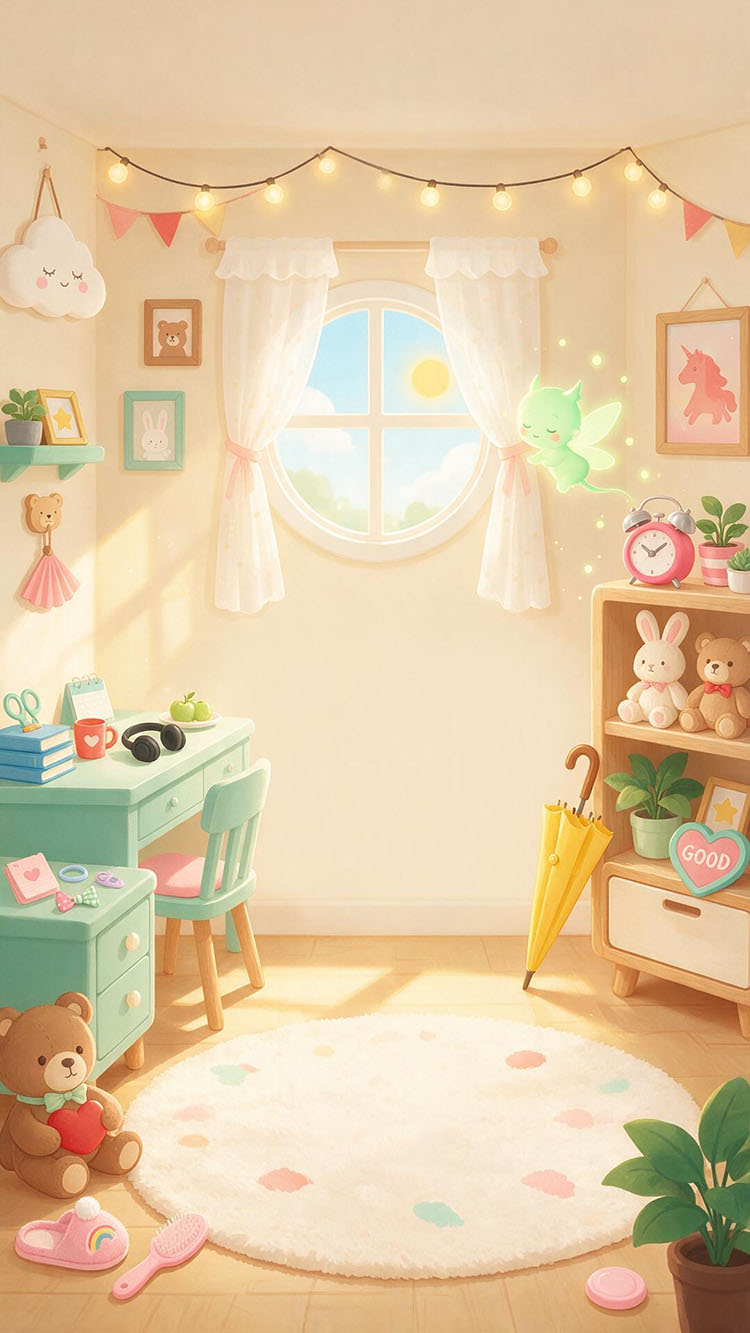
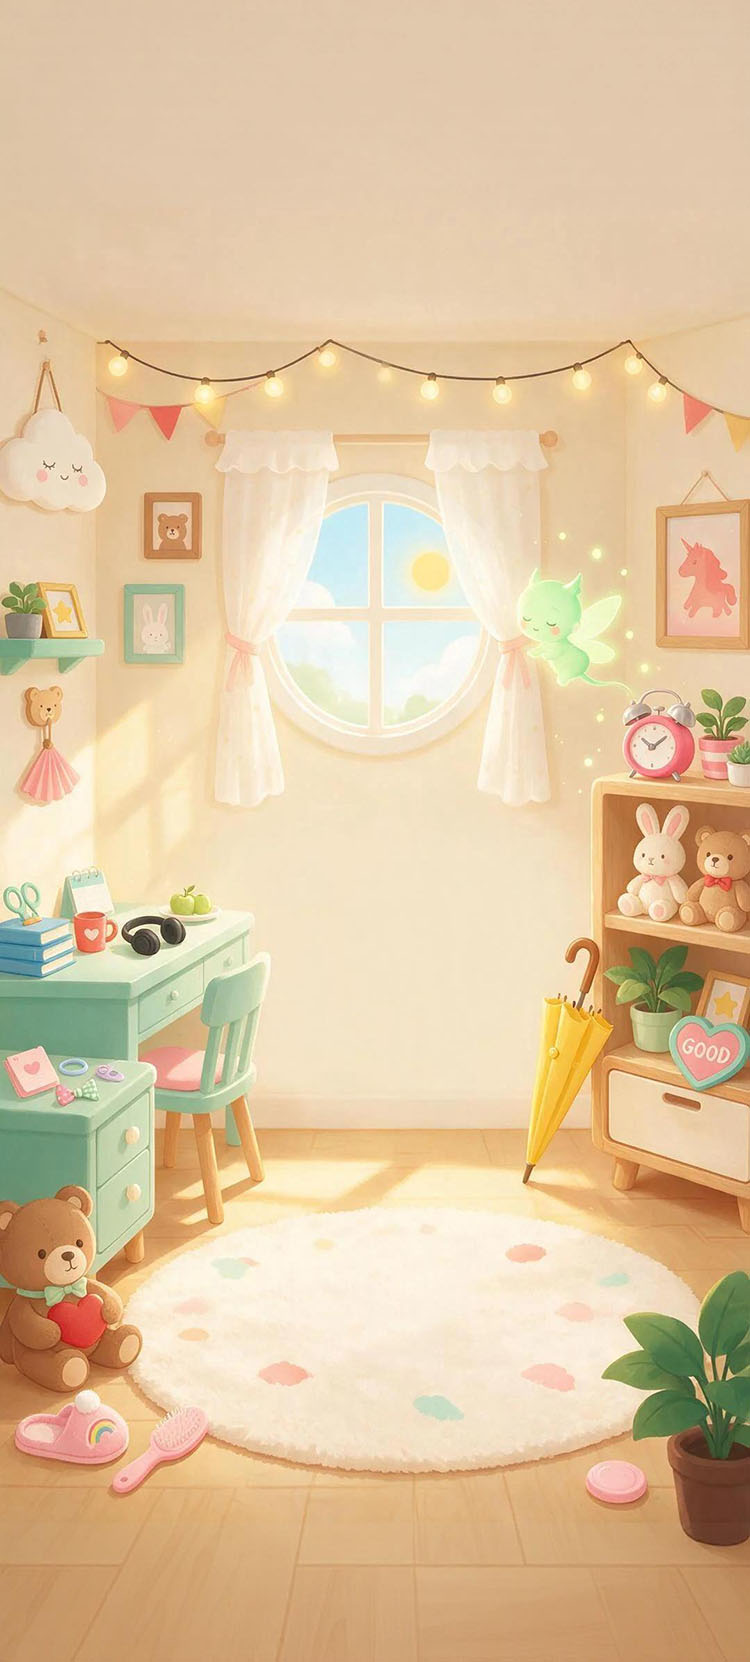
fix

diff --git a/assets/Script/app/NuonuoApp.ts b/assets/Script/app/NuonuoApp.ts
@@ -10,7 +10,7 @@
 import {
     _decorator, Component, Node, Label, Graphics, Color, UITransform,
     ScrollView, Mask, UIOpacity, tween, BlockInputEvents,
-    Sprite, SpriteFrame, resources, Tween, v3, sys,
+    Sprite, SpriteFrame, resources, Tween, v3, sys, view, Size,
 } from 'cc';
 const { ccclass } = _decorator;
 
@@ -29,14 +29,13 @@ const C_PAGE_BG: RGB = [22, 33, 62];        // #16213e
 const C_PRIMARY: RGB = [233, 69, 96];       // #e94560
 const C_GOLD: RGB = [245, 197, 24];         // #f5c518
 const C_BLUE: RGB = [59, 130, 246];         // 选关按钮
-const C_LOCKED: RGB = [51, 61, 76];         // 未解锁关卡
 const C_SUBTEXT: RGB = [170, 180, 200];     // 副标题/次级文字
 const C_WHITE: RGB = [255, 255, 255];
 const C_BROWN: RGB = [135, 94, 45];        // #875E2D 关卡界面文字/数字统一色
 
-// ========== 布局（设计分辨率 768×1344） ==========
-const SCREEN_W = 768;
-const SCREEN_H = 1344;
+// ========== 布局（设计分辨率 768×1344，布局坐标按设计稿写死） ==========
+// 全屏底板/遮罩不按设计分辨率铺，统一用 view.getVisibleSize()（见 visSize）：
+// 真机宽高比与设计分辨率不同时可见区会扩展，固定 768×1344 会铺不满留边。
 
 // ========== 功能开关 ==========
 /**
@@ -79,7 +78,8 @@ export default class NuonuoApp extends Component {
     private newScreen(name: string): Node {
         const n = new Node(name);
         n.layer = this.node.layer;
-        n.addComponent(UITransform).setContentSize(SCREEN_W, SCREEN_H);
+        const vs = this.visSize();
+        n.addComponent(UITransform).setContentSize(vs.width, vs.height);
         return n;
     }
 
@@ -89,6 +89,11 @@ export default class NuonuoApp extends Component {
         this.node.addChild(root);
     }
 
+    /** 当前可见区域尺寸（设计坐标，随屏幕宽高比动态变化），全屏底板/遮罩按它铺满 */
+    private visSize(): Size {
+        return view.getVisibleSize();
+    }
+
     // ========== 菜单页 ==========
 
     private showMenu(): void {
@@ -96,7 +101,7 @@ export default class NuonuoApp extends Component {
 
         // 背景：先铺原版底色兜底，再异步加载 first_bg.jpg 贴图覆盖（未就绪回退纯色）
         this.fullBg(root, C_MENU_BG);
-        this.loadFirstSprite(root, "first_bg", SCREEN_W, SCREEN_H, 0, 0, null);
+        this.loadFullBgSprite(root, 'first', 'first_bg');
 
         // 同一行三按钮：排行榜(左) · 开始(中) · 每日奖励(右)
         this.loadFirstSprite(root, "btn_rank", 139, 123, -266, -320, () => this.openRank());
@@ -163,7 +168,7 @@ export default class NuonuoApp extends Component {
 
         // 背景：先铺兜底色，再异步加载 level_bg.jpg 覆盖（未就绪回退纯色）
         this.fullBg(root, C_PAGE_BG);
-        this.loadLevelSprite(root, "level_bg", SCREEN_W, SCREEN_H, 0, 0, null);
+        this.loadFullBgSprite(root, 'level', 'level_bg');
 
         // 顶部底板（static_bg 九宫格）：剩余物品/关卡信息；设置按钮放左上角
         const topPlate = this.loadPlate(root, 620, 110, 0, 515);
@@ -207,10 +212,11 @@ export default class NuonuoApp extends Component {
         mask.layer = this._screen.layer;
         this._screen.addChild(mask);
         mask.setPosition(0, 0, 0);
-        mask.addComponent(UITransform).setContentSize(SCREEN_W, SCREEN_H);
+        const vs = this.visSize();
+        mask.addComponent(UITransform).setContentSize(vs.width, vs.height);
         const g = mask.addComponent(Graphics);
         g.fillColor = this.makeColor([0, 0, 0], 150);
-        g.rect(-SCREEN_W / 2, -SCREEN_H / 2, SCREEN_W, SCREEN_H);
+        g.rect(-vs.width / 2, -vs.height / 2, vs.width, vs.height);
         g.fill();
         mask.addComponent(BlockInputEvents);
 
@@ -310,10 +316,11 @@ export default class NuonuoApp extends Component {
         overlay.layer = this.node.layer;
         this.node.addChild(overlay);
         overlay.setPosition(0, 0, 0);
-        overlay.addComponent(UITransform).setContentSize(SCREEN_W, SCREEN_H);
+        const vs = this.visSize();
+        overlay.addComponent(UITransform).setContentSize(vs.width, vs.height);
         const g = overlay.addComponent(Graphics);
         g.fillColor = this.makeColor([0, 0, 0], 140); // rgba(0,0,0,0.55)
-        g.rect(-SCREEN_W / 2, -SCREEN_H / 2, SCREEN_W, SCREEN_H);
+        g.rect(-vs.width / 2, -vs.height / 2, vs.width, vs.height);
         g.fill();
         overlay.addComponent(BlockInputEvents);
 
@@ -382,17 +389,12 @@ export default class NuonuoApp extends Component {
     // ========== 结果弹窗 ==========
 
     private showResult(r: ResultData): void {
-        const overlay = new Node("result");
-        overlay.layer = this.node.layer;
-        this.node.addChild(overlay);
-        overlay.setPosition(0, 0, 0);
-        overlay.addComponent(UITransform).setContentSize(SCREEN_W, SCREEN_H);
-        const g = overlay.addComponent(Graphics);
-        g.fillColor = this.makeColor([0, 0, 0], 178); // 约 70% 不透明蒙版（255×0.7≈178）
-        g.rect(-SCREEN_W / 2, -SCREEN_H / 2, SCREEN_W, SCREEN_H);
-        g.fill();
-        overlay.addComponent(BlockInputEvents);
-
+        // 步数耗尽但本关还有看广告加步数次数 → 续命弹窗（对齐源工程 checkStepLimit），不进失败结算
+        if (r.stepLimit) {
+            this.showStepLimitPopup(r);
+            return;
+        }
+        const overlay = this.makeOverlay("result");
         if (r.win) {
             // ===== 挑战成功：result 贴图（底板 + 标题 + 继续按钮），三者拉开间距 =====
             const resultBg = this.loadSprite(overlay, 'result', 'result_bg', 401, 429, 0, 20, null);
@@ -421,23 +423,93 @@ export default class NuonuoApp extends Component {
                 this.showMenu();
             }, this);
         } else {
-            // ===== 挑战失败：保留原逻辑（文字 + 重试 / 选关 / 主页） =====
-            this.label(overlay, "title", "关卡无法完成", 64, 0, 240, C_PRIMARY);
-            this.label(overlay, "moves", `共移动 ${r.steps} 次`, 32, 0, 130, C_WHITE);
-            this.label(overlay, "refresh", `使用刷新道具 ${gameState.levelRefreshSpent} 个`, 32, 0, 70, C_WHITE);
-            this.btn(overlay, "btn_primary", "重试", 0, -60, 360, 110, C_PRIMARY, () => {
-                overlay.destroy();
-                this.startGame(r.level);
-            });
-            this.btn(overlay, "btn_select", "选关", -130, -230, 240, 84, C_WHITE, () => {
-                overlay.destroy();
-                this.showLevelSelect();
-            }, 64);
-            this.btn(overlay, "btn_home", "主页", 130, -230, 240, 84, C_WHITE, () => {
-                overlay.destroy();
-                this.showMenu();
-            }, 77);
+            // ===== 挑战失败：文字 + 重试 / 选关 / 主页 =====
+            this.buildFailUi(overlay, r);
         }
+    }
+
+    /** 全屏半透明遮罩（结果 / 续命弹窗共用），带 BlockInputEvents 吞掉下层点击 */
+    private makeOverlay(name: string): Node {
+        const overlay = new Node(name);
+        overlay.layer = this.node.layer;
+        this.node.addChild(overlay);
+        overlay.setPosition(0, 0, 0);
+        const vs = this.visSize();
+        overlay.addComponent(UITransform).setContentSize(vs.width, vs.height);
+        const g = overlay.addComponent(Graphics);
+        g.fillColor = this.makeColor([0, 0, 0], 178); // 约 70% 不透明蒙版（255×0.7≈178）
+        g.rect(-vs.width / 2, -vs.height / 2, vs.width, vs.height);
+        g.fill();
+        overlay.addComponent(BlockInputEvents);
+        return overlay;
+    }
+
+    /** 挑战失败结算内容（重试 / 选关 / 主页），画在传入的遮罩上；失败结算与「放弃续命」共用 */
+    private buildFailUi(overlay: Node, r: ResultData): void {
+        this.label(overlay, "title", "关卡无法完成", 64, 0, 240, C_PRIMARY);
+        this.label(overlay, "moves", `共移动 ${r.steps} 次`, 32, 0, 130, C_WHITE);
+        this.label(overlay, "refresh", `使用刷新道具 ${gameState.levelRefreshSpent} 个`, 32, 0, 70, C_WHITE);
+        this.btn(overlay, "btn_primary", "重试", 0, -60, 360, 110, C_PRIMARY, () => {
+            overlay.destroy();
+            this.startGame(r.level);
+        });
+        this.btn(overlay, "btn_select", "选关", -130, -230, 240, 84, C_WHITE, () => {
+            overlay.destroy();
+            this.showLevelSelect();
+        }, 64);
+        this.btn(overlay, "btn_home", "主页", 130, -230, 240, 84, C_WHITE, () => {
+            overlay.destroy();
+            this.showMenu();
+        }, 77);
+    }
+
+    /**
+     * 步数耗尽续命弹窗（对齐源工程 checkStepLimit / createStepLimitButtons / renderStepLimitPopup）：
+     * 「看广告 +5步」按钮用 btn_video 贴图放大 + 文字，剩余次数实时显示；「放弃」进失败结算
+     */
+    private showStepLimitPopup(r: ResultData): void {
+        const overlay = this.makeOverlay("stepLimit");
+
+        // 面板（源工程 #1a1a2e）
+        const panel = this.panel(overlay, "panel", 0, 0, 560, 440, [26, 26, 46]);
+        this.label(panel, "title", "步数耗尽！", 44, 0, 180, C_GOLD);
+        this.label(panel, "sub", "看广告获得额外5步继续挑战", 26, 0, 128, C_SUBTEXT);
+        this.label(panel, "hint", `本关还可看广告 ${gameState.adStepsLeft} 次`, 26, 0, 78, C_GOLD);
+
+        // 看广告按钮：与「放弃」同款圆角底板（白色半透明），btn_video 小图 + 「看广告 +5步」文字同一个按钮，整块可点
+        const adBtn = new Node("btn_video");
+        adBtn.layer = panel.layer;
+        panel.addChild(adBtn);
+        adBtn.setPosition(0, -50, 0);
+        adBtn.addComponent(UITransform).setContentSize(320, 84);
+        const ag = adBtn.addComponent(Graphics);
+        ag.fillColor = this.makeColor(C_WHITE, 77);   // 与放弃按钮一致 rgba(255,255,255,0.3)
+        ag.roundRect(-160, -42, 320, 84, 16);
+        ag.fill();
+        this.loadSprite(adBtn, 'static', 'btn_video', 44, 45, -88, 0, null);
+        this.label(adBtn, "adText", "看广告 +5步", 30, 28, 0, C_WHITE, 190);
+        adBtn.on(Node.EventType.TOUCH_END, () => this.watchAdForSteps(overlay), this);
+        this.pressScale(adBtn);
+
+        // 放弃 → 清掉续命弹窗内容，原地转成失败结算（源工程 giveUpLevel）
+        this.btn(panel, "btn_giveup", "放弃", 0, -158, 320, 84, C_WHITE, () => {
+            overlay.removeAllChildren();
+            this.buildFailUi(overlay, r);
+        }, 77);
+    }
+
+    /** 看广告续命：微信走激励视频（预留广告位），其余环境直接发放；观看完毕记录次数并 +5步（对齐源工程 watchAdForSteps） */
+    private watchAdForSteps(overlay: Node): void {
+        PlatHelper.playVideo((success: boolean) => {
+            if (success) {
+                gameState.recordAdStep();
+                this._game.addSteps(5);
+                overlay.destroy();
+                this.toast(`看广告续命 +5步（本关剩余 ${gameState.adStepsLeft} 次）`);
+            } else {
+                this.toast('未看完广告，未获得步数');
+            }
+        }, VideoEnum.RewardedVideo.Prop_Steps);
     }
 
     // ========== UI 构建助手 ==========
@@ -451,10 +523,11 @@ export default class NuonuoApp extends Component {
         n.layer = parent.layer;
         parent.addChild(n);
         n.setPosition(0, 0, 0);
-        n.addComponent(UITransform).setContentSize(SCREEN_W, SCREEN_H);
+        const vs = this.visSize();
+        n.addComponent(UITransform).setContentSize(vs.width, vs.height);
         const g = n.addComponent(Graphics);
         g.fillColor = this.makeColor(rgb);
-        g.rect(-SCREEN_W / 2, -SCREEN_H / 2, SCREEN_W, SCREEN_H);
+        g.rect(-vs.width / 2, -vs.height / 2, vs.width, vs.height);
         g.fill();
         return n;
     }
@@ -465,7 +538,8 @@ export default class NuonuoApp extends Component {
         n.layer = parent.layer;
         parent.addChild(n);
         n.setPosition(x, y, 0);
-        n.addComponent(UITransform).setContentSize(w, h);
+        const uITransform = n.addComponent(UITransform);
+        uITransform.setContentSize(w, h);
         if (cb) {
             n.on(Node.EventType.TOUCH_END, () => cb(), this);
             this.pressScale(n);
@@ -476,6 +550,25 @@ export default class NuonuoApp extends Component {
             if (err || !sf || !n.isValid) return;
             const spr = n.addComponent(Sprite);
             spr.sizeMode = Sprite.SizeMode.CUSTOM;
+            spr.spriteFrame = sf;
+        });
+        return n;
+    }
+
+    /**
+     * 全屏背景大图：按贴图原始尺寸居中显示（first_bg / level_bg），不做拉伸。
+     * 图片尺寸以实际资源为准（后续会调整图片）：画布只露出中心部分，超出部分由屏幕两侧裁掉。
+     */
+    private loadFullBgSprite(parent: Node, folder: string, name: string): Node {
+        const n = new Node(name);
+        n.layer = parent.layer;
+        parent.addChild(n);
+        n.setPosition(0, 0, 0);
+        n.addComponent(UITransform);
+        resources.load(`nuonuo/${folder}/${name}/spriteFrame`, SpriteFrame, (err, sf) => {
+            if (err || !sf || !n.isValid) return;
+            // sizeMode 默认 TRIMMED：按 spriteFrame 原始尺寸渲染，节点尺寸由 Sprite 自动同步
+            const spr = n.addComponent(Sprite);
             spr.spriteFrame = sf;
         });
         return n;
@@ -666,10 +759,16 @@ export default class NuonuoApp extends Component {
         parent.addChild(n);
         n.setPosition(x, y, 0);
         n.addComponent(UITransform).setContentSize(size, size);
-        const g = n.addComponent(Graphics);
-        g.fillColor = this.makeColor(unlocked ? C_PRIMARY : C_LOCKED);
-        g.roundRect(-size / 2, -size / 2, size, size, 12);
-        g.fill();
+
+        // 格子底：棋盘默认格子贴图 gezi 铺满整格（Sprite），不再画 Graphics 圆角块；
+        // 未解锁用灰色调把贴图压暗
+        const spr = n.addComponent(Sprite);
+        spr.sizeMode = Sprite.SizeMode.CUSTOM;
+        spr.color = this.makeColor(unlocked ? C_WHITE : [120, 120, 120]);
+        resources.load('nuonuo/gezi/spriteFrame', SpriteFrame, (err, sf) => {
+            if (err || !sf || !n.isValid) return;
+            spr.spriteFrame = sf;
+        });
 
         const labNode = new Node("Label");
         labNode.layer = n.layer;
@@ -679,7 +778,8 @@ export default class NuonuoApp extends Component {
         lab.string = `${lv}`;
         lab.fontSize = 40;
         lab.isBold = true;
-        lab.color = this.makeColor(unlocked ? C_WHITE : C_SUBTEXT);
+        // gezi 底是浅米色（#ffdeab），数字改深色才看得清；未解锁整体变灰
+        lab.color = this.makeColor(unlocked ? C_BROWN : C_SUBTEXT);
         lab.horizontalAlign = Label.HorizontalAlign.CENTER;
         lab.verticalAlign = Label.VerticalAlign.CENTER;
         this.pressScale(n);

diff --git a/assets/Script/app/NuonuoGame.ts b/assets/Script/app/NuonuoGame.ts
@@ -104,6 +104,8 @@ export interface ResultData {
     level: number;
     steps: number;
     hasNext: boolean;
+    /** 步数耗尽但本关还有看广告加步数次数 → 宿主弹「看广告 +5步」续命弹窗（非最终失败结算） */
+    stepLimit?: boolean;
 }
 
 @ccclass('NuonuoGame')
@@ -116,6 +118,7 @@ export default class NuonuoGame extends Component {
 
     // 本地 HUD 计数（步数/撤销由本层自管，通关进度交给 gameState 持久化）
     private stepsUsed: number = 0;
+    private maxSteps: number | null = null;   // 步数上限（看广告续命会动态 +5，不能直接读 levelCfg）
     private totalItems: number = 0;
 
     private boardRoot: Node = null;
@@ -236,6 +239,7 @@ export default class NuonuoGame extends Component {
         gameState.setLevel(level);
 
         this.stepsUsed = 0;
+        this.maxSteps = cfg.maxSteps ?? null;
         this.totalItems = cfg.items.length;
         this.history = [];
         this.dragFrom = null;
@@ -523,7 +527,7 @@ export default class NuonuoGame extends Component {
         this.onHud({
             level: this.level,
             steps: this.stepsUsed,
-            maxSteps: this.levelCfg.maxSteps ?? null,
+            maxSteps: this.maxSteps,
             placed: isClear ? this.clearCount(wc.targetType) : this.placedCount,
             total: isClear ? wc.targetCount : this.totalItems,
         });
@@ -832,6 +836,14 @@ export default class NuonuoGame extends Component {
         this.initLevel(this.level);
     }
 
+    /** 看广告续命：步数上限 +n（宿主在广告发放后调用；对齐源工程 watchAdForSteps 的 onReward） */
+    public addSteps(n: number): void {
+        if (this.maxSteps !== null) {
+            this.maxSteps += n;
+            this.updateHud();
+        }
+    }
+
     /**
      * 刷新：把所有未归位物品重新随机排列（对齐挪挪收纳屋 SceneGame.refresh）。
      * 规则：同格堆叠不拆散、目标格不动、已归位物品不动、随机分配到可用落点。
@@ -948,9 +960,20 @@ export default class NuonuoGame extends Component {
             if (this.placedCount >= this.totalItems) { this.onWin(); return; }
         }
 
-        const maxSteps = this.levelCfg.maxSteps ?? null;
-        if (maxSteps !== null && this.stepsUsed >= maxSteps) {
-            this.onFail();
+        if (this.maxSteps !== null && this.stepsUsed >= this.maxSteps) {
+            // 步数耗尽：本关还有看广告加步数次数 → 弹「看广告 +5步」续命弹窗（对齐源工程 checkStepLimit）；
+            // 次数用完 → 直接进失败结算
+            if (gameState.adStepsLeft > 0) {
+                this.onResult?.({
+                    win: false,
+                    stepLimit: true,
+                    level: this.level,
+                    steps: this.stepsUsed,
+                    hasNext: false,
+                });
+            } else {
+                this.onFail();
+            }
         }
     }
 

diff --git a/assets/Script/util/WeChatPlatHelper.ts b/assets/Script/util/WeChatPlatHelper.ts
@@ -377,6 +377,7 @@ const reportIds = ["BCBgAAoXHx5d1QpzuGCJR1"];
 const videoIds = [
     "adunit-27790c1980b36ebb",   // 道具 - 撤回
     "adunit-ea1f4d5ea4698881",   // 道具 - 刷新
+    "adunit-xxxxxxxxxxxxxxxx",   // 广告续命 - 加步数（预留，接入正式广告时替换）
 ]
 
 

diff --git a/assets/Script/enum/VideoEnum.ts b/assets/Script/enum/VideoEnum.ts
@@ -5,6 +5,8 @@ export namespace VideoEnum {
         Prop_Undo = 0,
         /** 道具 - 刷新（看广告 +1） */
         Prop_Refresh = 1,
+        /** 广告续命 - 步数耗尽加步（看广告 +5步） */
+        Prop_Steps = 2,
     }
 
     export enum CustomVideo {
